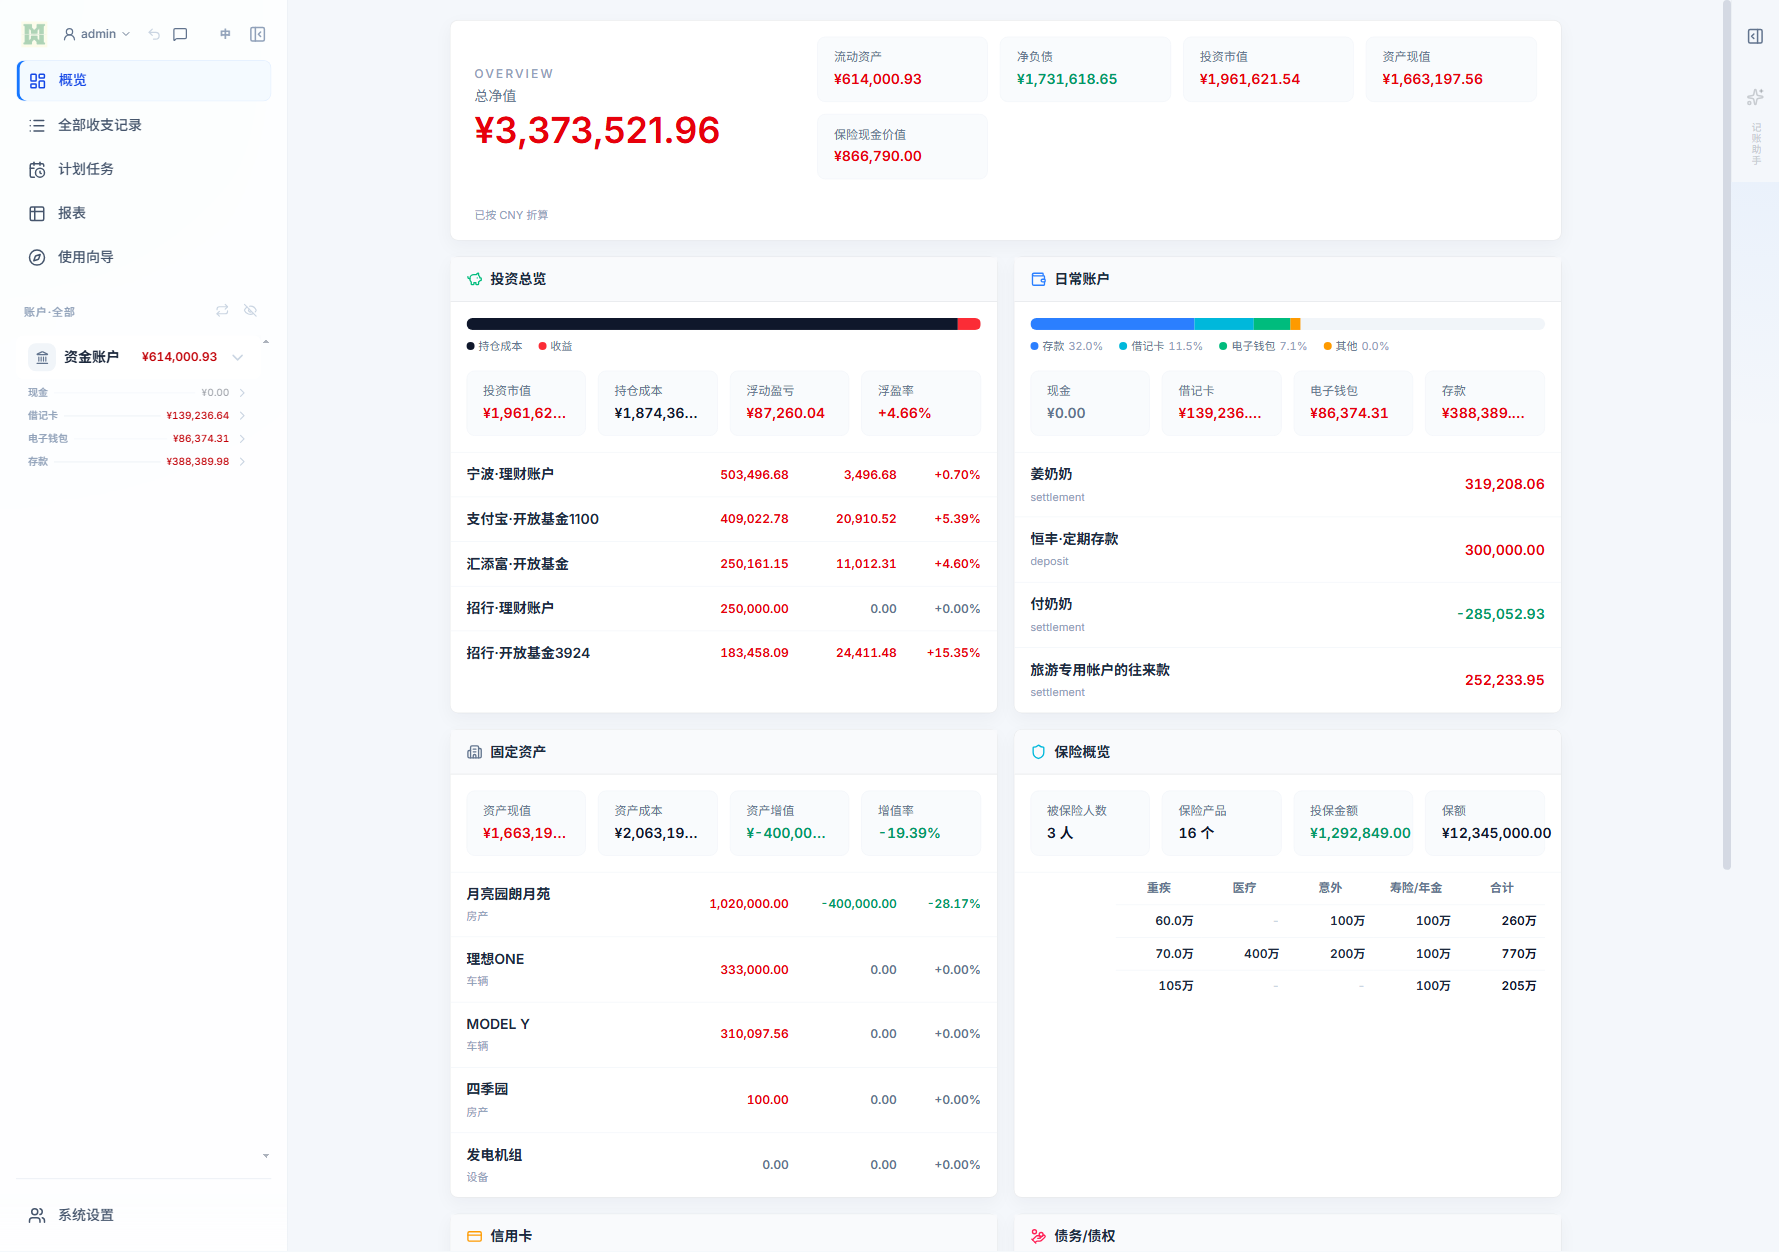
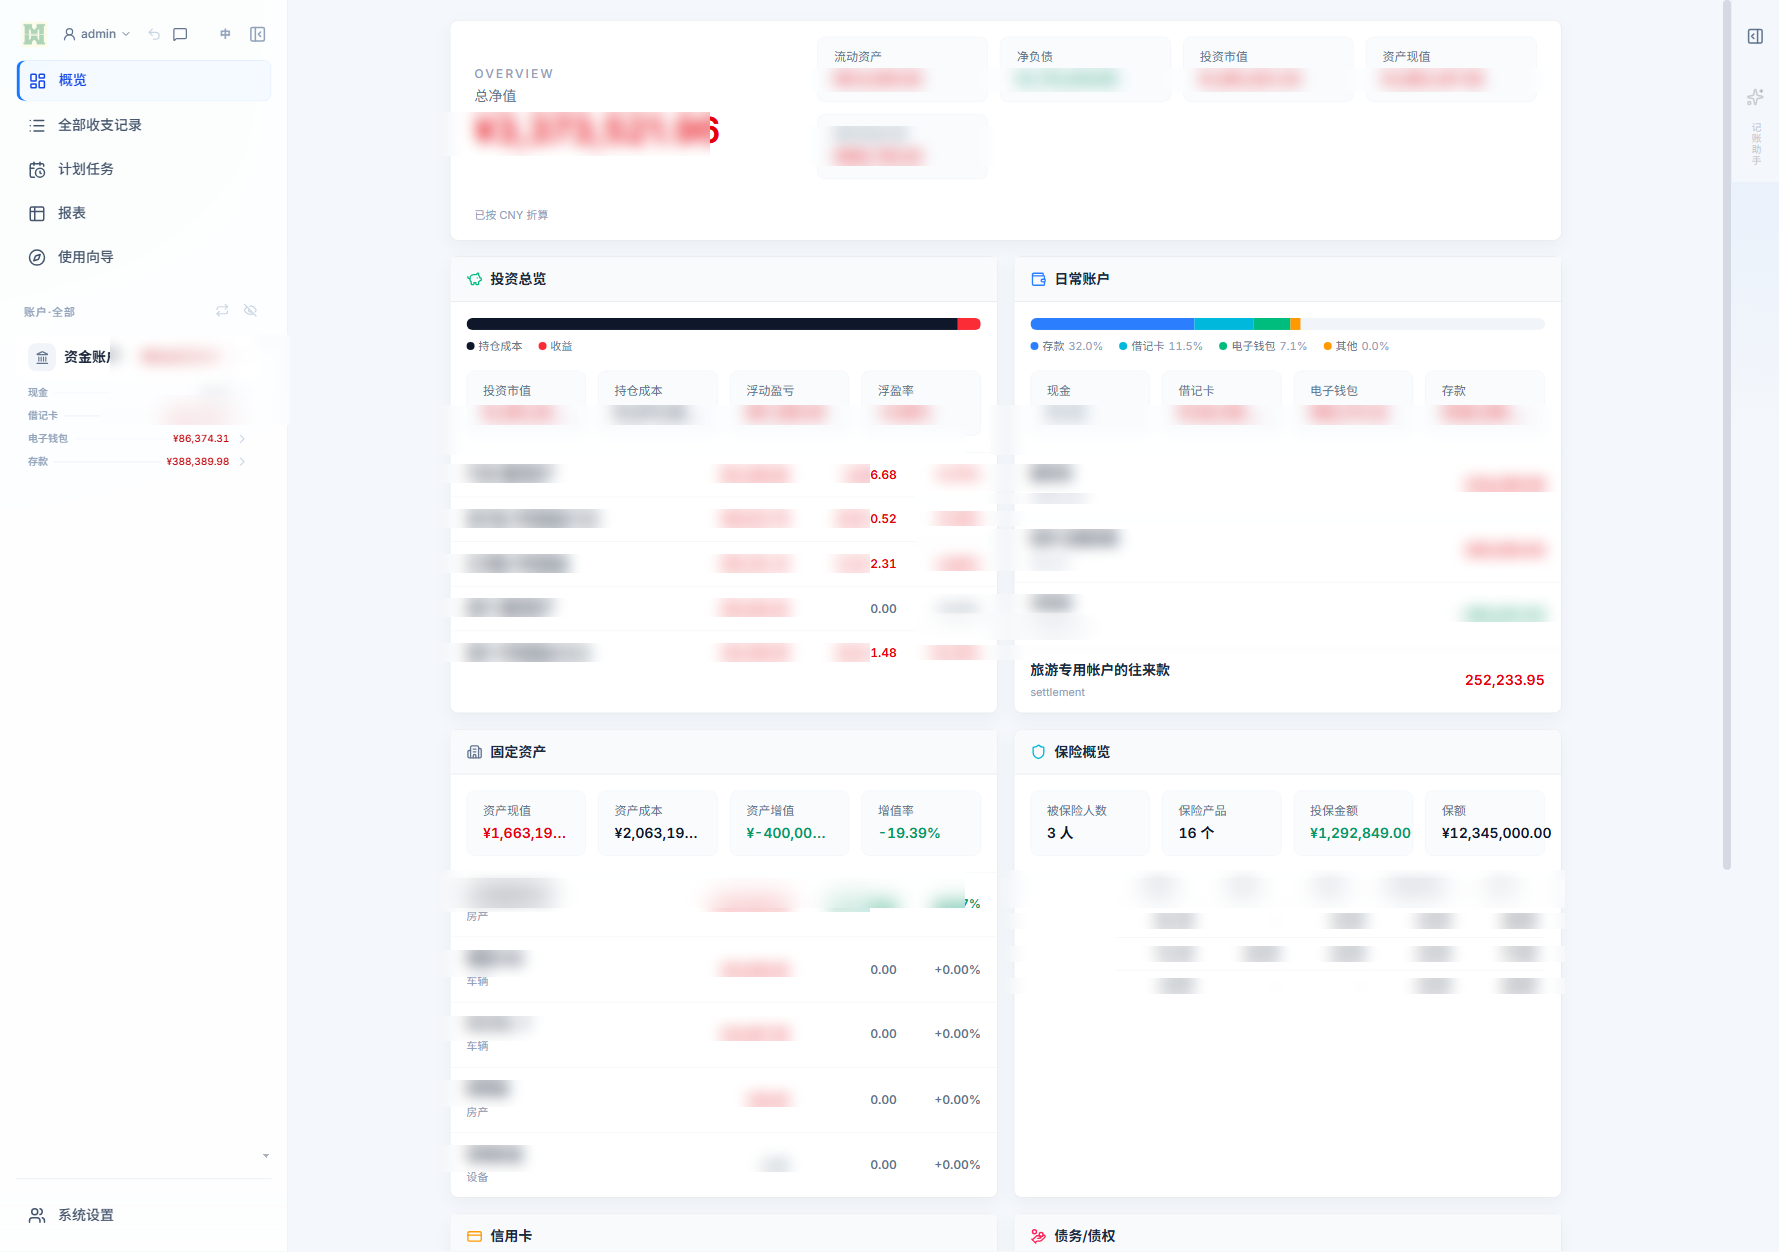
docs: 补充 README 亮点章节并更新总览截图

diff --git a/README.md b/README.md
@@ -57,6 +57,16 @@ MMH（MoneyMoneyHome）是一套面向家庭和个人的本地优先智能财务
 - **AI 助手用聊天记账**：对话式记账、查账、批量修改、恢复误删，也可以直接把账单文本或截图丢给它。
 - **多设备共用一本账**：Web、Windows 桌面端、Android App、开放 API 共享同一套数据和计算口径。
 
+### 几个花了不少功夫的地方
+
+这些不是"记个数"的表面功能，而是背后有一套自己的计算和落账逻辑：
+
+- **债券按存单计息，付息自动到账**：城投债/国债以"存单"为单位管理——一笔买入就是一张存单，同一只债单可以有多张存单，各自的起息日、到期日、付息频率、票面利率都不同。每个付息日系统自动生成一对流水（生息 + 取息），到期只提醒、由你手工确认，支持提前赎回和核销；主条款只在债单上维护，每张存单又可以覆盖自己的条款。
+- **贷款的 LPR 调整和提前还款重算**：房贷跟随 LPR 调息后自动重算后续月供和期数；提前还款时支持两种口径——"月供不变、缩短期限"会沿用之前的月供直到下一次调息，不把缩短后的结果倒灌进历史；"期限不变、减少月供"才按剩余本金和剩余期限重新均摊。还款计划怎么变，账本里的现金流就跟着怎么变。
+- **账单进来，账自动对好**：支持支付宝/微信 Excel、财智8、邮箱/PDF/截图等多种来源导入，AI 识别后先预览再批量入账；再用余额校准把每一笔流水和实际账户余额对齐，不用自己加总。
+- **周期的事全部自动落账**：定投、还款、转账、缴费、存款取息、债券付息都进同一个计划任务中心，到点自动生成流水，漏记、重复记、手动抄单这些坑在源头就绕开。
+- **一家人共用一本账**：账户所有人和家庭成员是同一批人，一边改名另一边同步；支出可以选家庭成员、机构、往来对象，往来款的余额也能算清谁欠谁。
+
 ### 功能模块
 
 | 模块 | 说明 |
